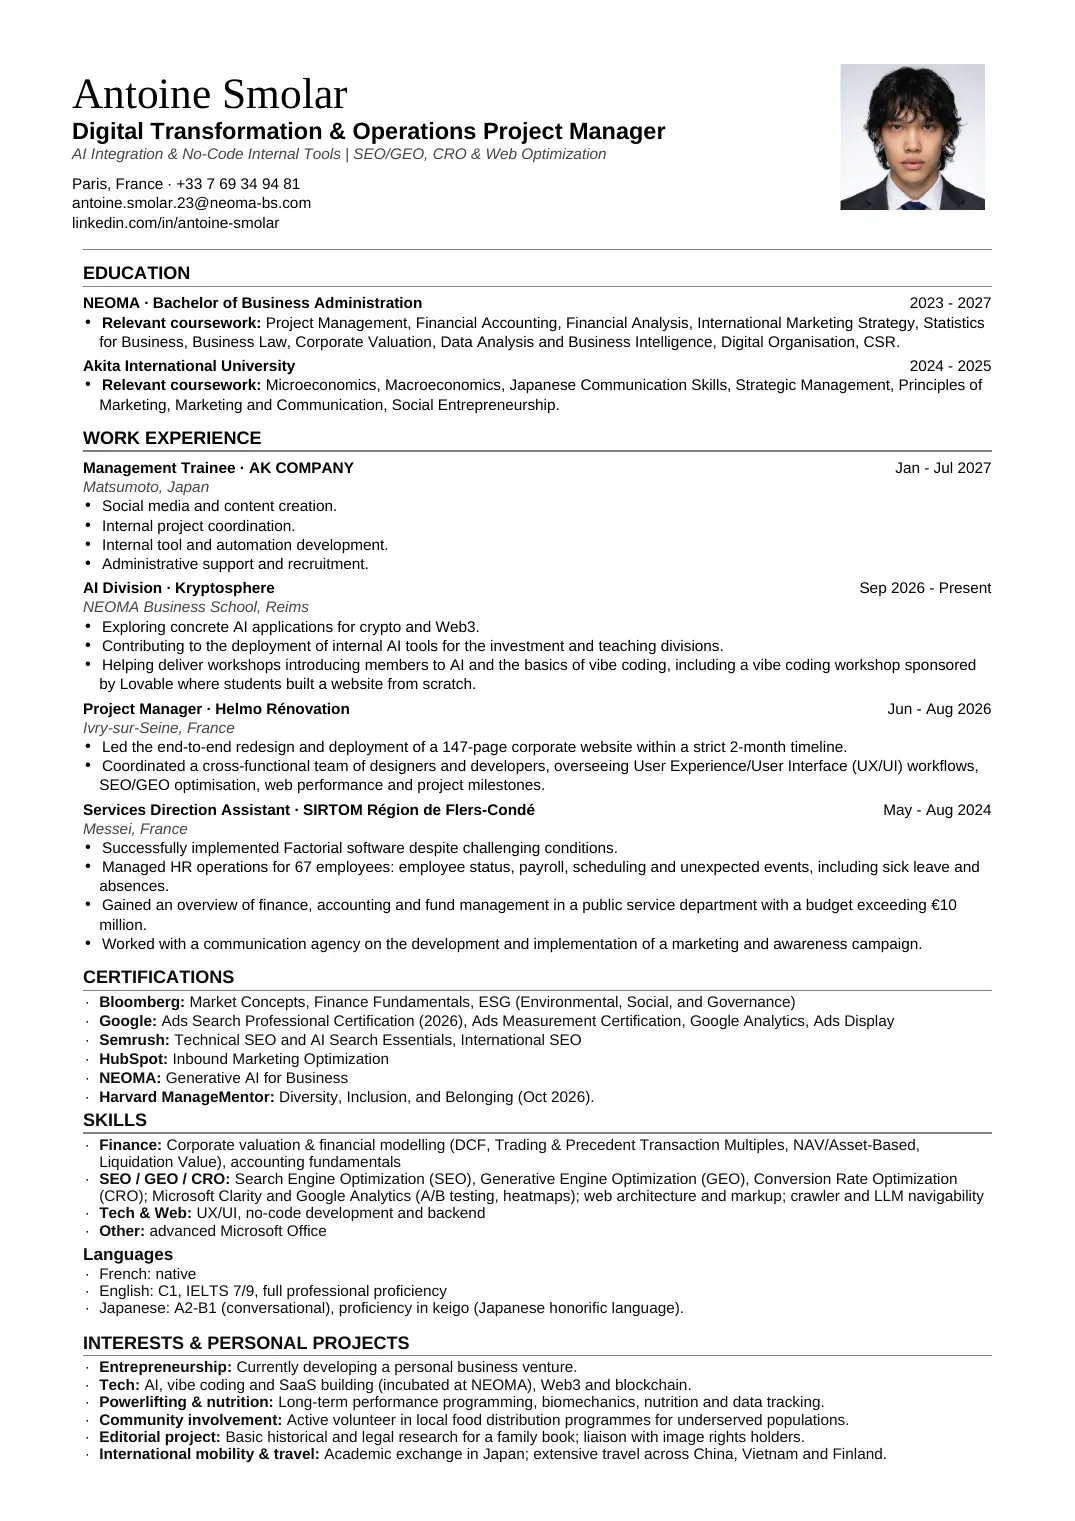
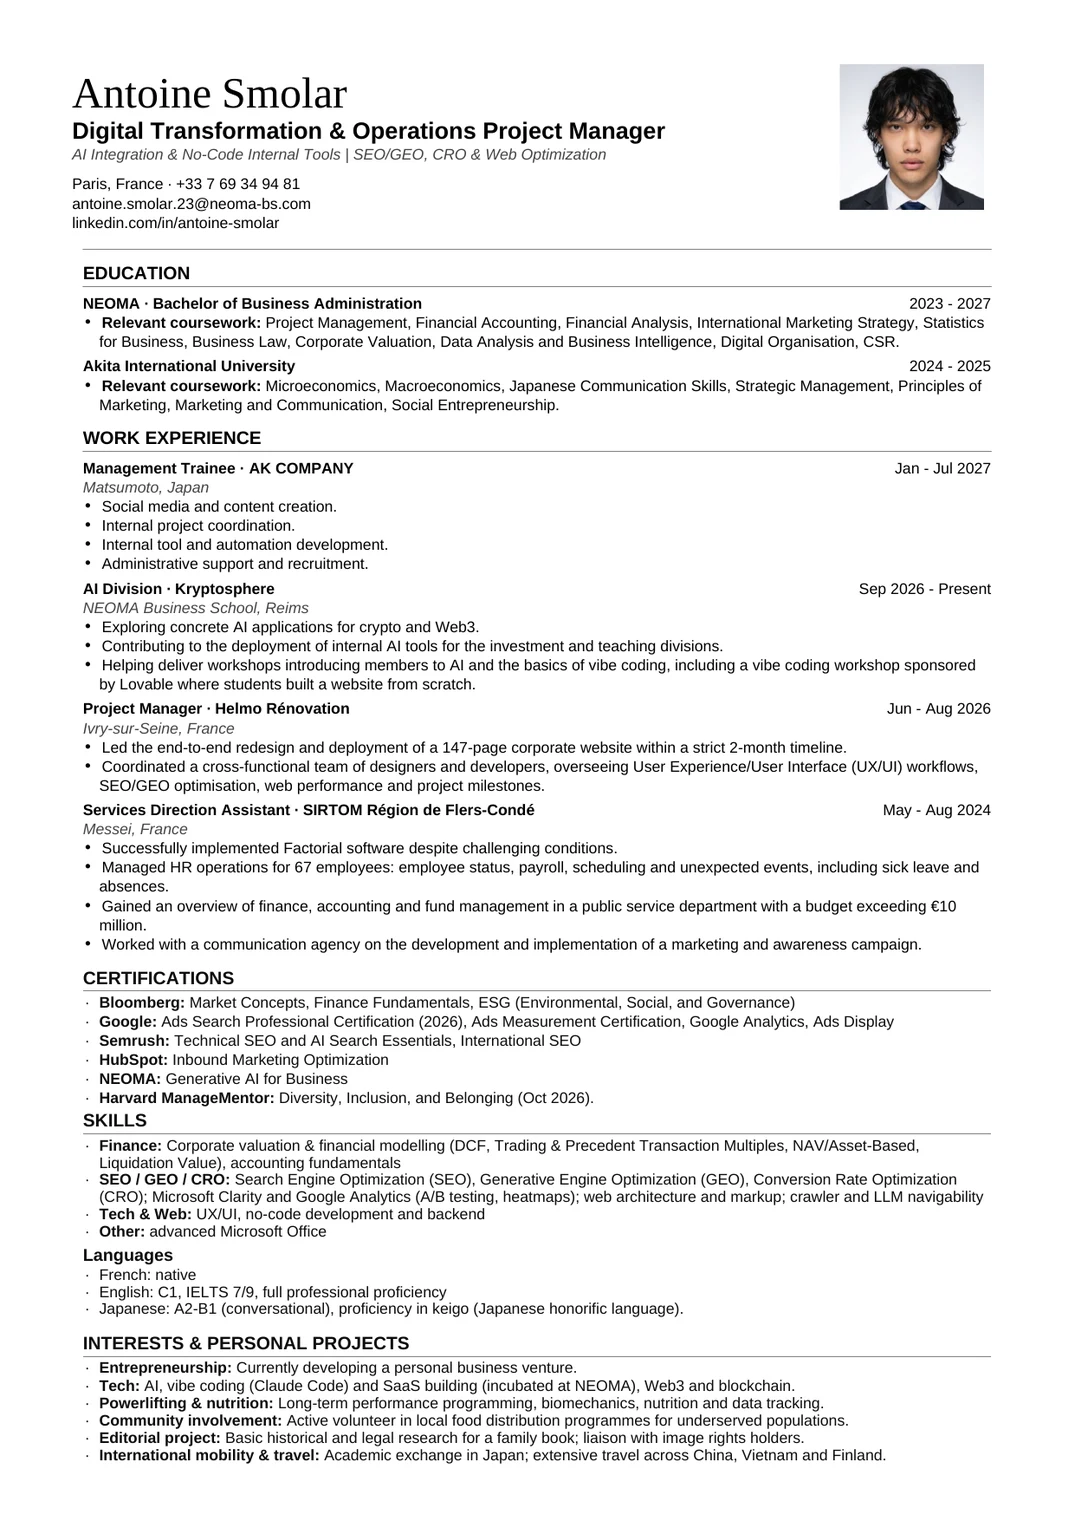
CV and No-code skill card: vibe coding with Claude Code
Claude-Session: https://claude.ai/code/session_01RM7J6suh3qVdkb8kUsGcoj

diff --git a/app/page.tsx b/app/page.tsx
@@ -39,7 +39,7 @@ const skills: Skill[] = [
   {
     short: "No-code",
     name: "App development",
-    text: "SaaS products and internal tools shipped in days.",
+    text: "SaaS products and internal tools shipped in days, vibe coded with Claude Code.",
   },
   {
     short: "Digital & AI",
